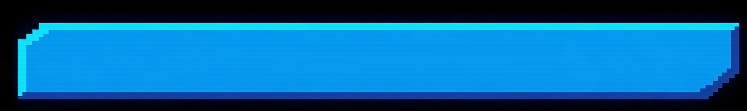
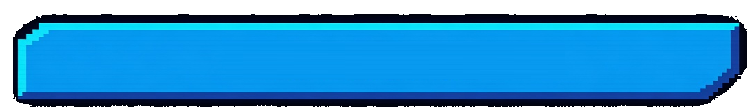
fix(menu): fondo horneado fuera de los botones, mismo largo los tres y offline sin preguntar sala
- Los PNG de boton tenian el FONDO OPACO horneado en la imagen (negro en rojo
  y azul, blanco en verde) — eso era el "fondo feo", no el CSS. Limpiados con
  flood fill desde los bordes (alfa 0), preservando el arte y su contorno.
- Los 3 botones al MISMO largo (width 100%); el verde usa las dimensiones de
  la version que retoco David (722x77).
- PLAY OFFLINE ya no pregunta sala: es practica, entra directo en FREE.

Changed region(s): [[0.0, 0.0, 1.0, 1.0]]

diff --git a/game/index.html b/game/index.html
@@ -627,13 +627,13 @@
             border: none !important; border-image: none !important; border-radius: 0 !important;
             clip-path: none !important; box-shadow: none !important;
             background: transparent url('img/cartel-hero/btn-plain-blue.png') center/100% 100% no-repeat !important;
-            image-rendering: pixelated; aspect-ratio: 747/111; width: 82%;
+            image-rendering: pixelated; aspect-ratio: 747/111; width: 100%;
             font-family: 'Press Start 2P', monospace; font-size: 11px; color: #fff;
             text-shadow: 2px 2px 0 rgba(0,0,0,0.65); padding: 0; margin: 8px auto 0; display: block;
         }
         body.pixel-pack .login-left #btnFeatures, .login-left #btnFeatures {
             background-image: url('img/cartel-hero/btn-plain-green.png') !important;
-            aspect-ratio: 828/124;
+            aspect-ratio: 722/77;
         }
         .login-left .btn-play:hover:not(:disabled), .login-left .btn-settings:hover { filter: brightness(1.15); color: #fff; }
         .login-left .btn-play:disabled { filter: grayscale(0.6) brightness(0.75); }
@@ -3556,6 +3556,8 @@
     function choosePlay(kind) {
         closePlayChoice();
         if (!currentServer) {
+            // Offline es practica: no se pregunta sala, se va directo a FREE.
+            if (kind === 'offline') { selectRoom('Free'); runPlay(kind); return; }
             _pendingPlayKind = kind;
             document.getElementById('roomChoiceModal').style.display = 'flex';
             return;
